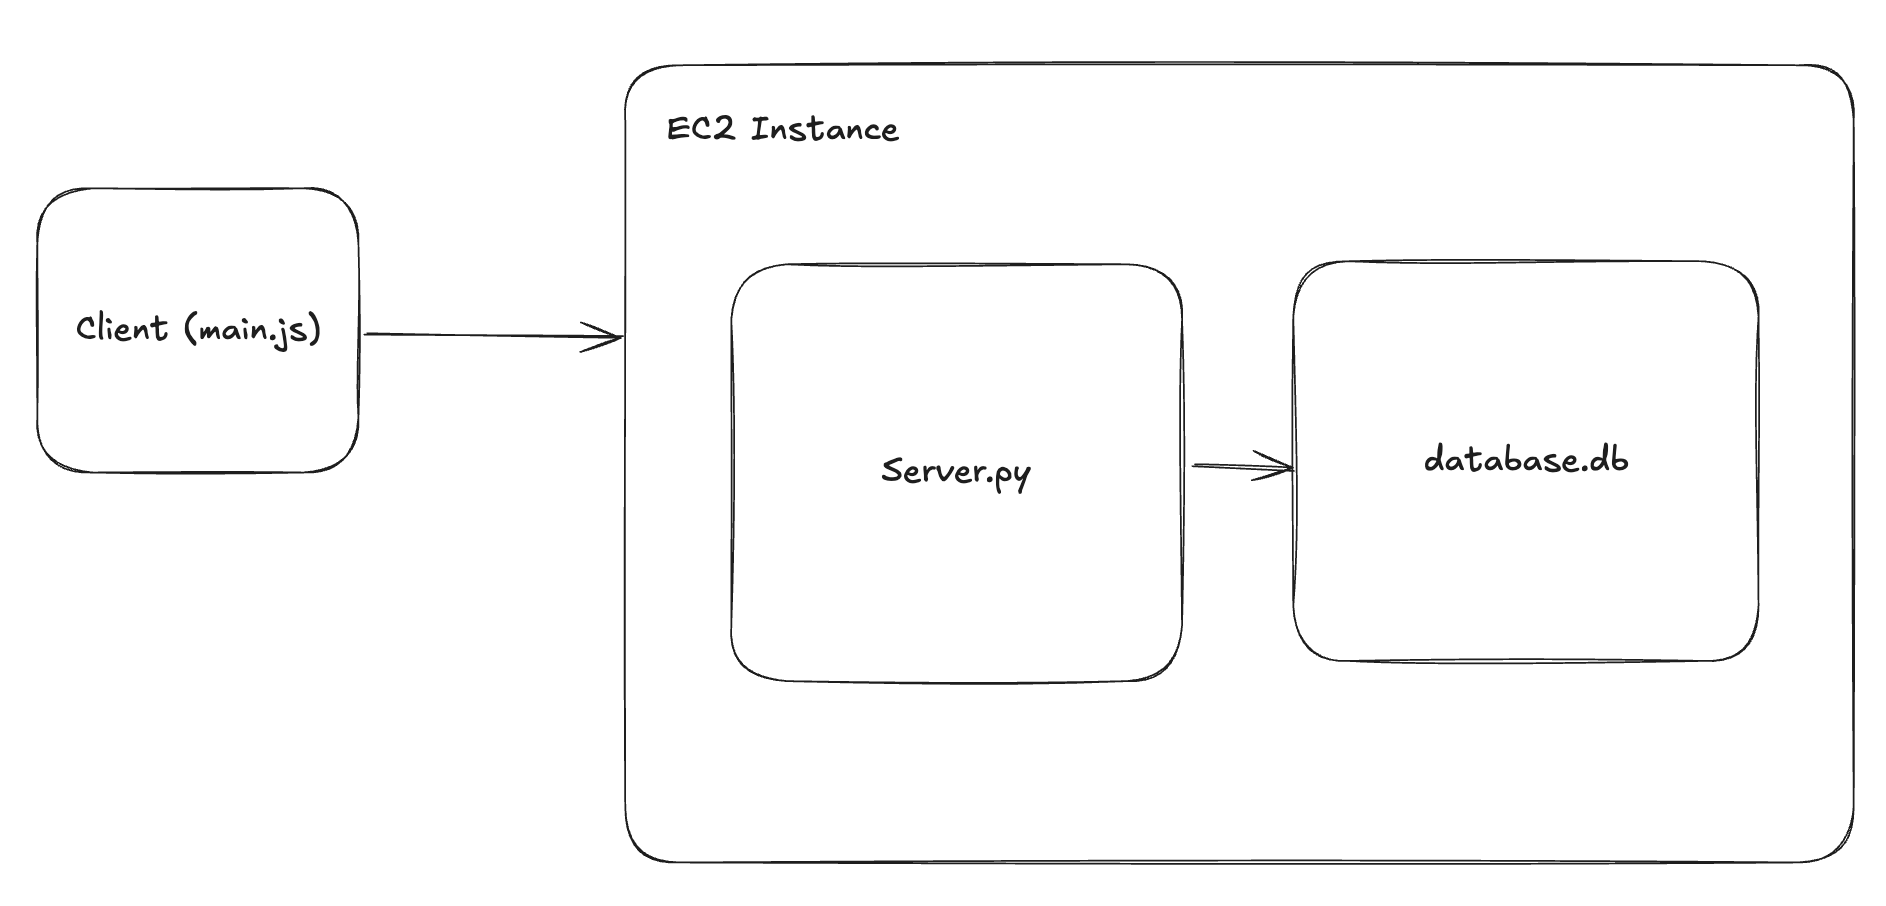
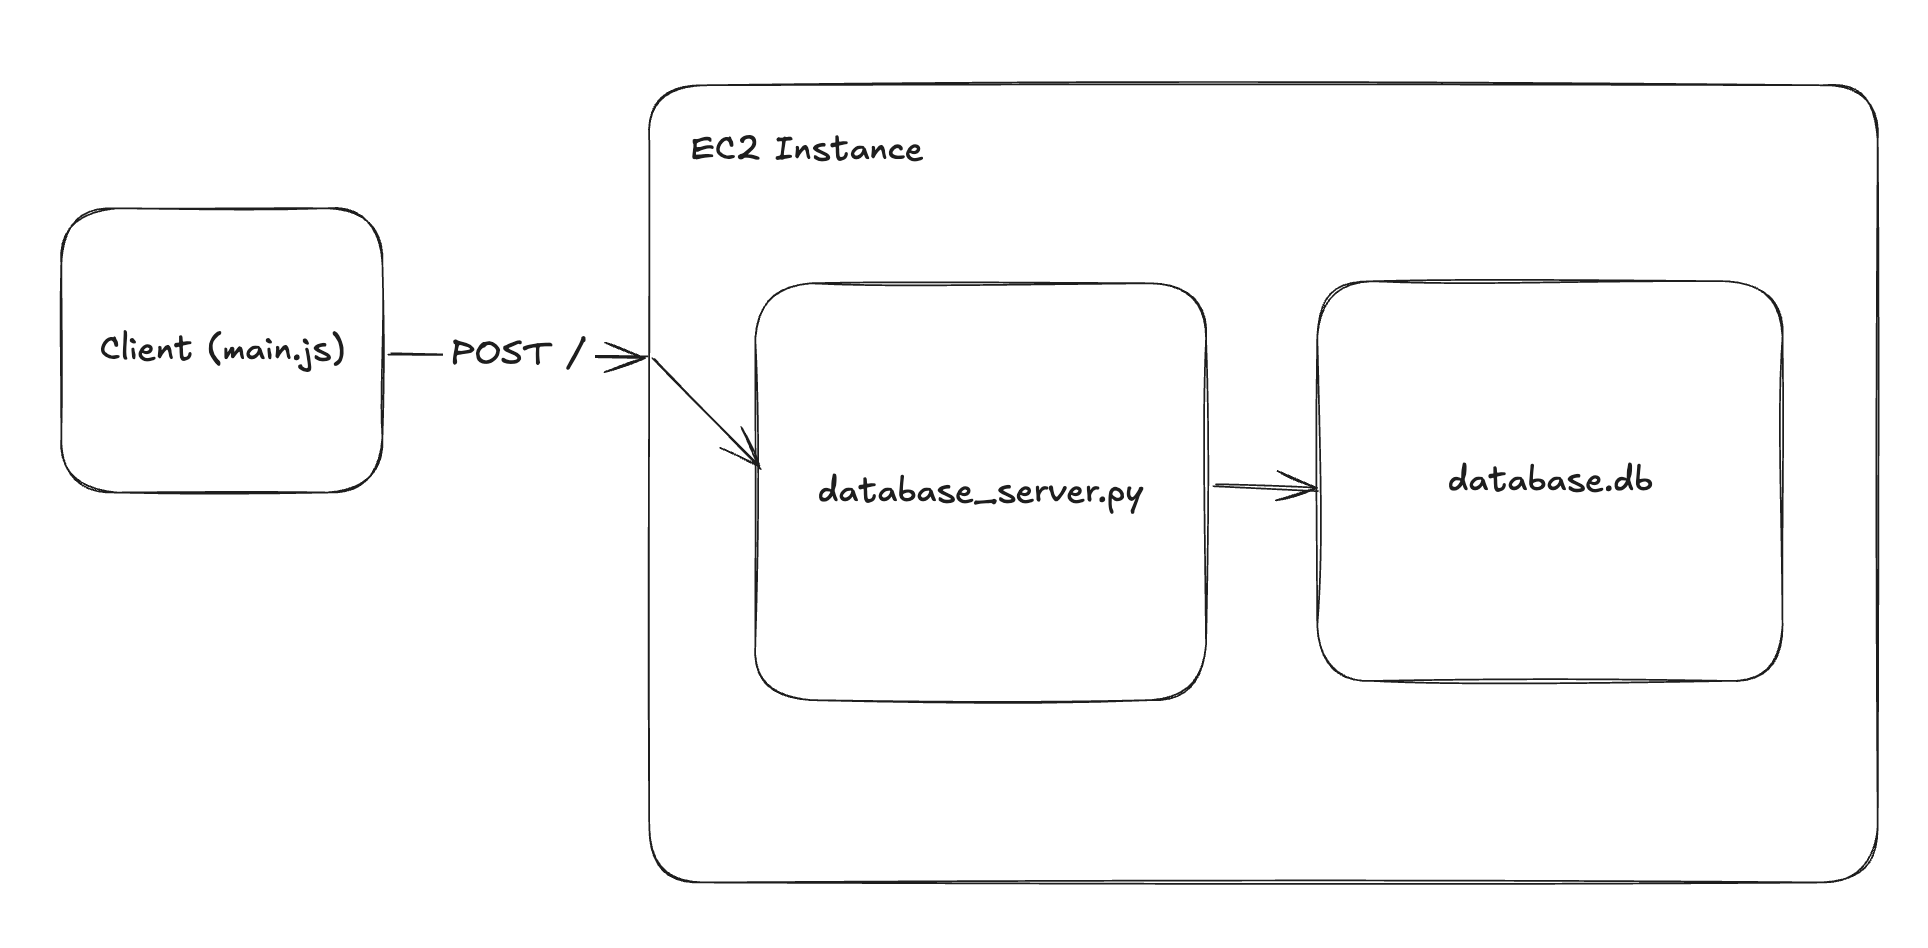
Add database server implementation and update README instructions

diff --git a/database_server.py b/database_server.py
@@ -84,5 +84,5 @@ class MyHTTPRequestHandler(http.server.SimpleHTTPRequestHandler):
 
 with socketserver.TCPServer(("", PORT), MyHTTPRequestHandler) as httpd:
     print("Serving at port", PORT)
-    db_connection = sqlite3.connect('/database/database.db')
+    db_connection = sqlite3.connect('file:/database/database.db?mode=ro', uri=True)
     httpd.serve_forever()

diff --git a/README.md b/README.md
@@ -12,7 +12,7 @@ The following command assumes you have the `vulineage-database-ssh-key.pem` on y
 `ssh -i ~/Desktop/vulineage-database-ssh-key.pem ec2-user@ec2-204-236-197-103.compute-1.amazonaws.com`
 
 ## Copying the server.py to the database server
-`scp -i ~/Desktop/vulineage-database-ssh-key.pem ~/repos/ajmedeio/vulineage/server.py ec2-user@ec2-204-236-197-103.compute-1.amazonaws.com:/home/ec2-user`
+`scp -i ~/Desktop/vulineage-database-ssh-key.pem ~/repos/ajmedeio/vulineage/database_server.py ec2-user@ec2-204-236-197-103.compute-1.amazonaws.com:/home/ec2-user`
 
 ## Testing
 `curl -H "Accept: application/json" -H "Content-type: application/json" -X POST -d '{"query":"select 1"}' http://ec2-204-236-197-103.compute-1.amazonaws.com:9631`
@@ -29,7 +29,7 @@ For windows user, just change the double quotes into single quotes in `curl` com
 `journalctl -u server.py.service -f`
 
 ## Architecture
-![alt text](docs/image.png)
+![Architecture diagram](docs/image.png)
 
 # Getting Started For Local Development
 To get started, we can run the frontend_server.py using `python frontend_server.py` or `python3 frontend_server.py` from your project root.
